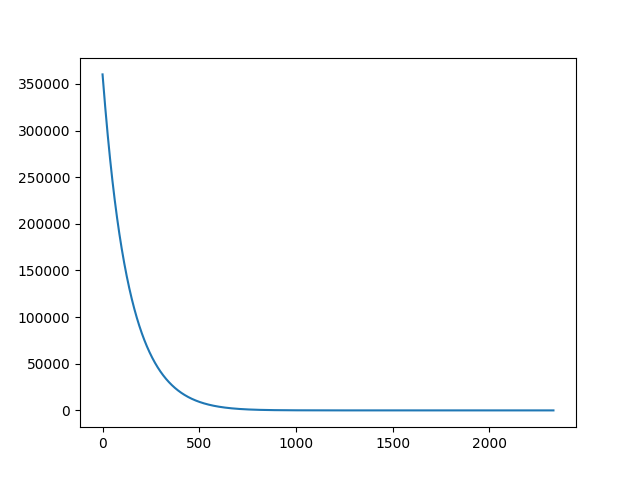
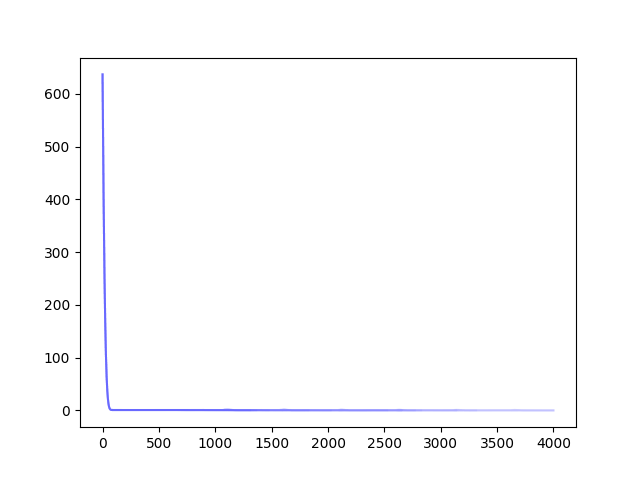
First test on all 2 by 2 matrices

diff --git a/Time_Delayed_Adam (higher dimensions).py b/Time_Delayed_Adam (higher dimensions).py
@@ -20,9 +20,7 @@ def random_float(key, low=2, high=50, shape=()):
 def make_graph(iter, data):
     x = jnp.linspace(0, iter, len(data))
     y = data
-    plt.plot(x, y)
-    plt.savefig("test_plot.png")
-    plt.close()
+    plt.plot(x, y, color='blue', alpha=0.05, marker=None)
     return
 
 #The Four Functions used in Dr. Webb's Paper
@@ -96,9 +94,9 @@ def print_info(func, start_coord, theta, iter, D, flag, start_time):
     print(f"# of iterations: {iter}\n")
 
 
-def process(coordinate, d_matrix=None): 
-    #Inital condition/ Set up
-    flag = input("Function flag (-a, -ra, -ro, -z): ")
+def workflow(coordinate, flag="-ro", d_matrix=None): 
+    # Inital condition/ Set up
+    # Function flags (-a, -ra, -ro, -z)
     if flag == "-a":
         func = ackley
     elif flag == "-ra":
@@ -125,7 +123,7 @@ def process(coordinate, d_matrix=None):
     # time tracking for the main function
     start = time.time()
  
-    while (iter<4000  and func(theta)>0.01):
+    while (iter<10000  and func(theta)>0.01):
 
         if iter == 1: # trace of all x_i values.
             lst_all_theta = [[float(theta[i])] for i in range(a)]
@@ -151,9 +149,13 @@ def process(coordinate, d_matrix=None):
 
 
 def main():
+    # Define the function
+    flag = "-ro"
+
     # Key is the seed for random numbers
     key = jax.random.PRNGKey(0)
-    for i in range(2, 4):
+    for i in range(2, 3):
+
         # Make every possible matrix of dim i by i
         matrices = jnp.array(list(product([0, 1], repeat=(i*i))), dtype=jnp.int8).reshape(-1, i, i)
 
@@ -162,6 +164,18 @@ def main():
         for j in range(20):
             key, x = random_float(key, shape=(i,))
             start_vals.append(tuple(x.tolist()))
+
+        for matrix in matrices:
+            # for X in start_vals:
+                workflow(start_vals[0], flag, d_matrix=matrix)
+
+    # Save all of the graphs together
+    plt.xlabel("x")
+    plt.ylabel("y")
+    plt.title("Rosenbrock with varying time delays")
+    plt.savefig("test_plot.png")
+    plt.close()
+
 
 if __name__ == "__main__":
     main()
